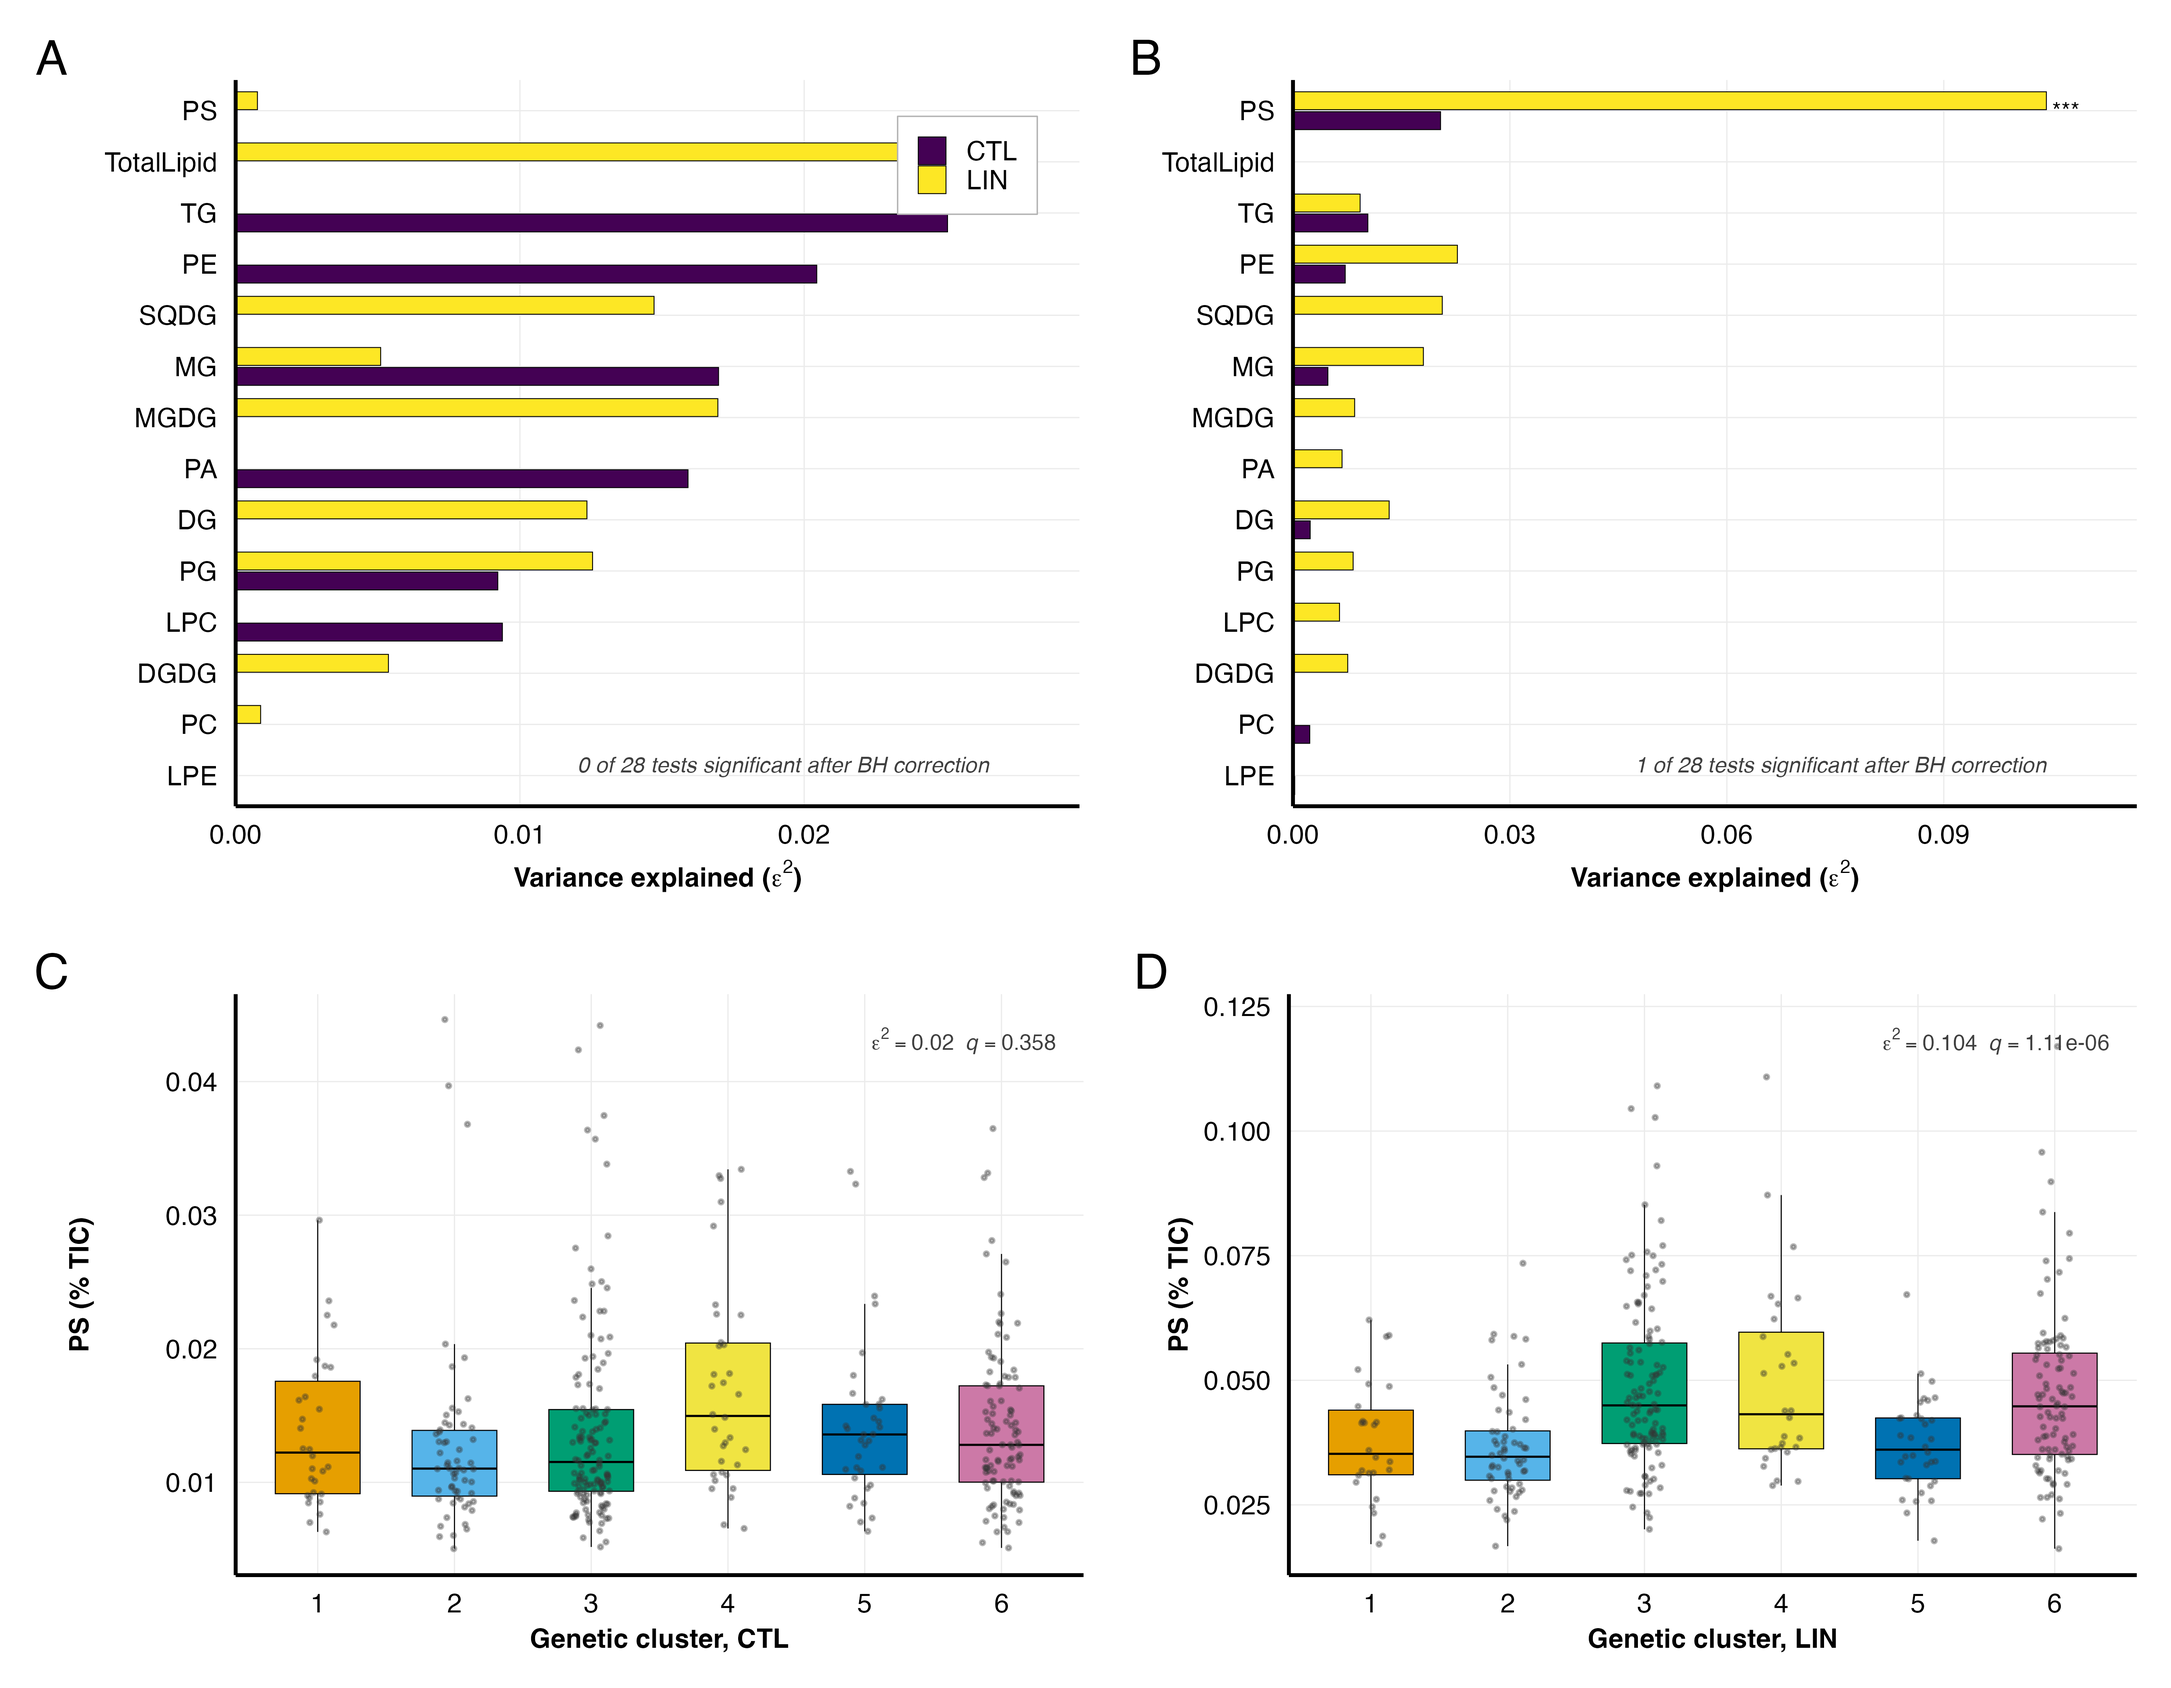
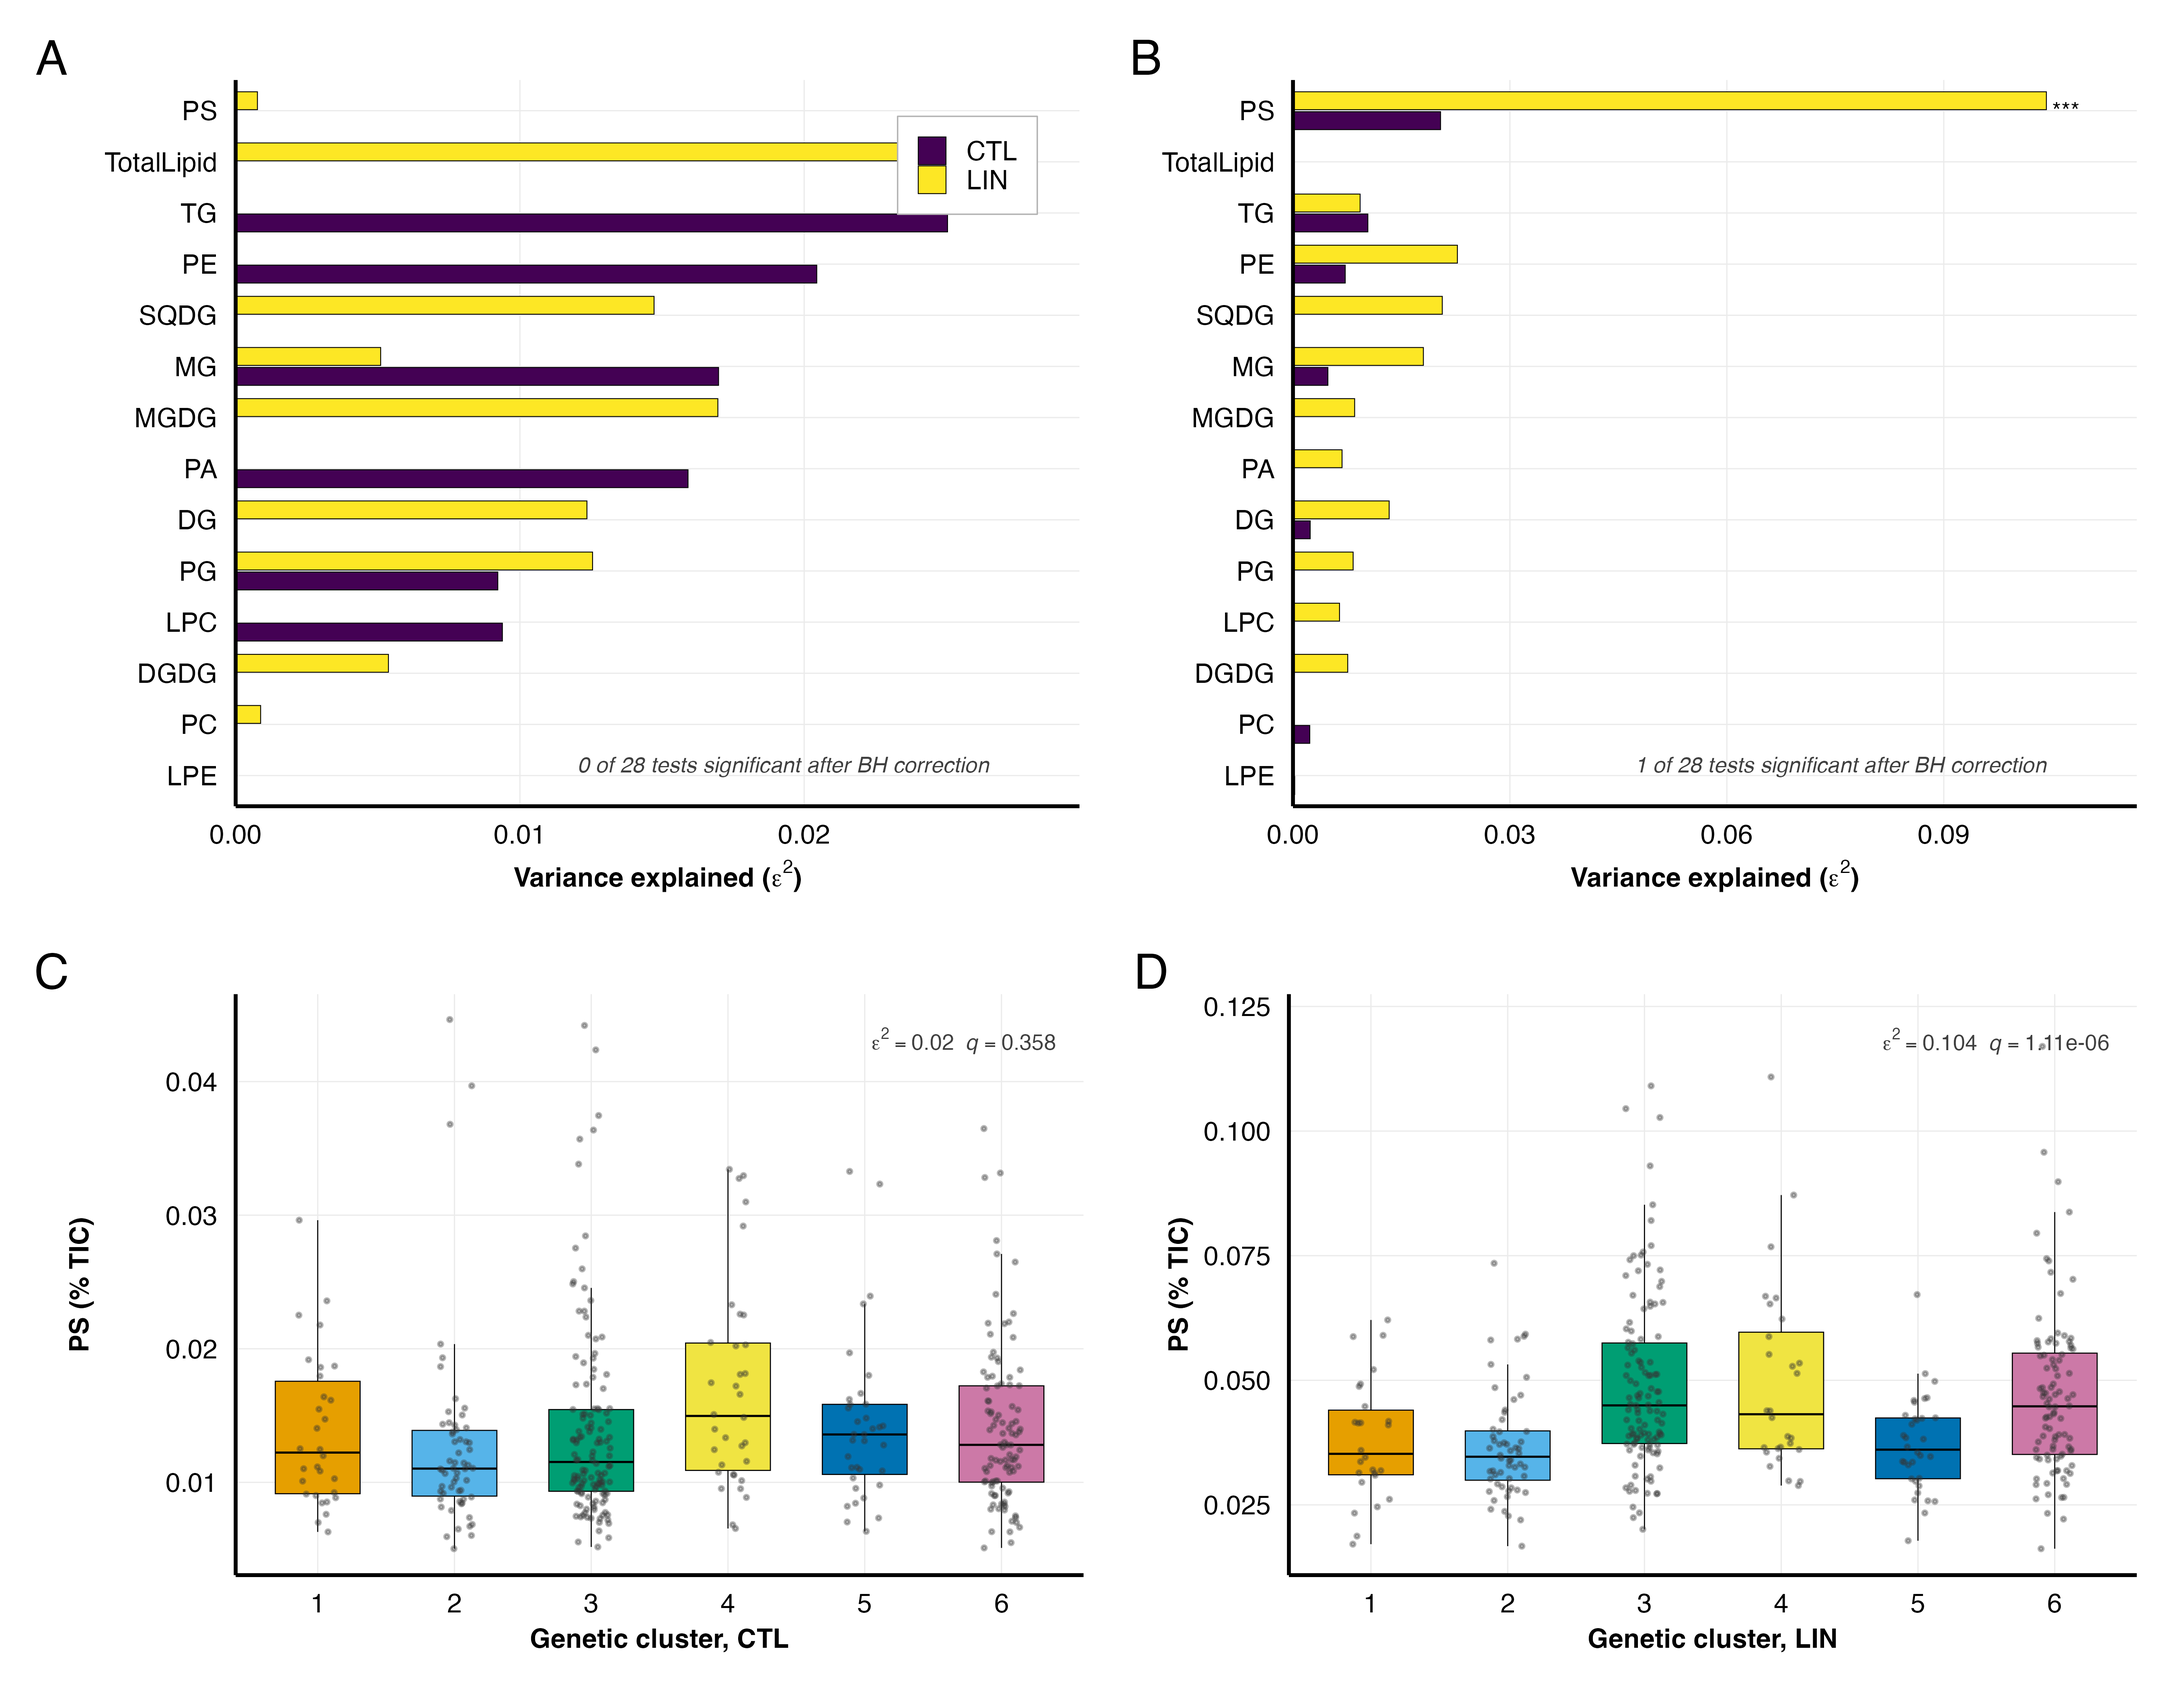
botoanical fig remove

diff --git a/main.tex b/main.tex
@@ -130,7 +130,7 @@ QC-based normalization improved technical reproducibility, increasing the QC-RSD
 
 The SAP is structured by botanical race and geographic origin \citep{Casa2008CommunityResourcesSorghum, Boatwright2022}. We next asked whether the lipid variation reflected that structure. We tested two groupings. The first was botanical race, collapsed into six groups: the five classical races (Bicolor, Caudatum, Durra, Guinea, Kafir) plus a Mixed group containing all intermediate designations (e.g., Durra--Bicolor, Kafir--Caudatum). The second grouping was marker-based genetic cluster ($K=6$), which covered 387 CTL and 355 LIN accessions and provides a more complete genetic description of population structure. We tested 14 traits per condition, which included total lipid signal and the 13 lipid classes (Supplementary Table~S25) using Kruskal--Wallis tests with BH correction and summarized effect size as $\varepsilon^2$, the proportion of rank variance explained by the grouping.
 
-Botanical race explained little to no lipid variation (Fig.~\ref{fig:fig1_population_structure}A). No trait was significant in either trial after BH correction (smallest $q=0.468$), and effect sizes were uniformly small ($\varepsilon^2 \le 0.027$ across all traits and trials; Table~\ref{tab:race_structure}, per-race distributions in Supplementary~\ref{fig:S8_race_box_ctl} and~\ref{fig:S9_race_box_lin}). Marker-based genetic clusters gave the same result for 27 of the 28 tests (14 traits in each trial; $q>0.14$; $\varepsilon^2<0.023$; Fig.~\ref{fig:fig1_population_structure}B). The only exception was phosphatidylserine (PS) under LIN, where cluster membership was associated with PS abundance ($q=1.11\times10^{-6}$; $\varepsilon^2=0.104$; Fig.~\ref{fig:fig1_population_structure}D). Under CTL the same trait showed only a weak, non-significant trend ($\varepsilon^2=0.020$; $q=0.358$; Fig.~\ref{fig:fig1_population_structure}C). The absence of structure is also visible in the ordination itself. Principal component analysis of the class composition within each trial placed accessions of every race and of every genetic cluster in a single overlapping cloud, and neither grouping explained the leading axes (all $\varepsilon^2\le0.016$, no test significant; Supplementary~\ref{fig:suppfig_s3_class_pca}).
+Botanical race explained little to no lipid variation (Fig.~\ref{fig:fig1_population_structure}A). No trait was significant in either trial after BH correction (smallest $q=0.468$), and effect sizes were uniformly small ($\varepsilon^2 \le 0.027$ across all traits and trials; Table~\ref{tab:race_structure}, per-group medians in Supplementary Table~S25). Marker-based genetic clusters gave the same result for 27 of the 28 tests (14 traits in each trial; $q>0.14$; $\varepsilon^2<0.023$; Fig.~\ref{fig:fig1_population_structure}B). The only exception was phosphatidylserine (PS) under LIN, where cluster membership was associated with PS abundance ($q=1.11\times10^{-6}$; $\varepsilon^2=0.104$; Fig.~\ref{fig:fig1_population_structure}D). Under CTL the same trait showed only a weak, non-significant trend ($\varepsilon^2=0.020$; $q=0.358$; Fig.~\ref{fig:fig1_population_structure}C). The absence of structure is also visible in the ordination itself. Principal component analysis of the class composition within each trial placed accessions of every race and of every genetic cluster in a single overlapping cloud, and neither grouping explained the leading axes (all $\varepsilon^2\le0.016$, no test significant; Supplementary~\ref{fig:suppfig_s3_class_pca}).
 
 Taken together, botanical race and genome-wide genetic clusters explained negligible lipid-class variation, so the lipid associations reported below are unlikely to be simple artifacts of population stratification. The only clear population-structure effect was PS under LIN, and PS occurs at very low relative abundance, indicating redistribution within a minor phospholipid pool rather than a shift in the bulk lipidome.
 
@@ -655,20 +655,6 @@ unit variance so that no single dominant class sets the axes.
 ($\varepsilon^2$, Kruskal--Wallis). No grouping explains either leading axis in
 either trial.}
 \label{fig:suppfig_s3_class_pca}
-\end{figure*}
-
-\begin{figure*}[!ht]
-\centering
-\includegraphics[width=\textwidth]{fig/supp/SuppFig_S8_Race_Boxplots_CTL.png}
-\caption{\textbf{Lipid class composition by botanical race under CTL.} Distribution of total lipid signal (log$_{10}$ TIC) and of 13 lipid class \%TIC values across six botanical race groups in the control trial. Points are individual accessions; boxes show median and interquartile range. Panel titles give the Kruskal--Wallis effect size ($\varepsilon^2$) and significance after Benjamini--Hochberg correction (ns, not significant).}
-\label{fig:S8_race_box_ctl}
-\end{figure*}
-
-\begin{figure*}[!ht]
-\centering
-\includegraphics[width=\textwidth]{fig/supp/SuppFig_S9_Race_Boxplots_LIN.png}
-\caption{\textbf{Lipid class composition by botanical race under LIN.} As in Supplementary~\ref{fig:S8_race_box_ctl}, for the low-input trial.}
-\label{fig:S9_race_box_lin}
 \end{figure*}
 
 \begin{figure*}[!ht]
